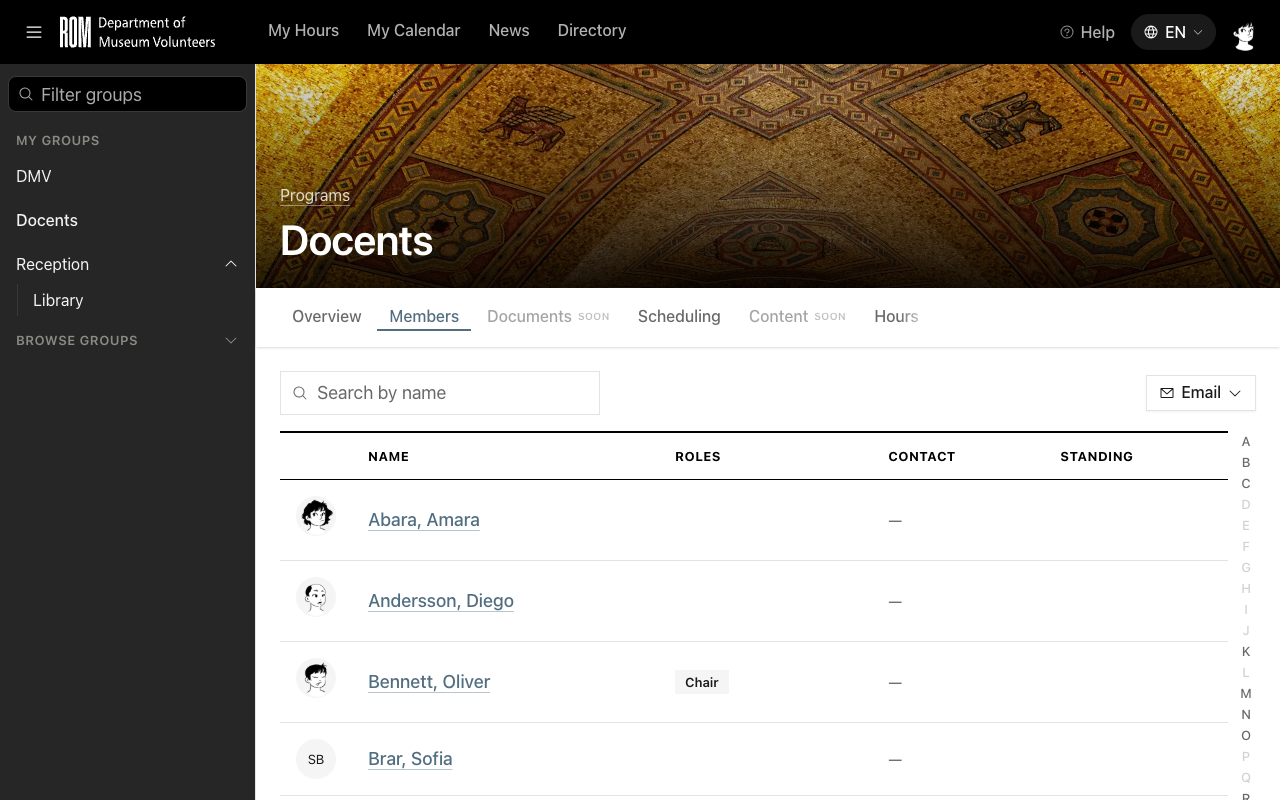
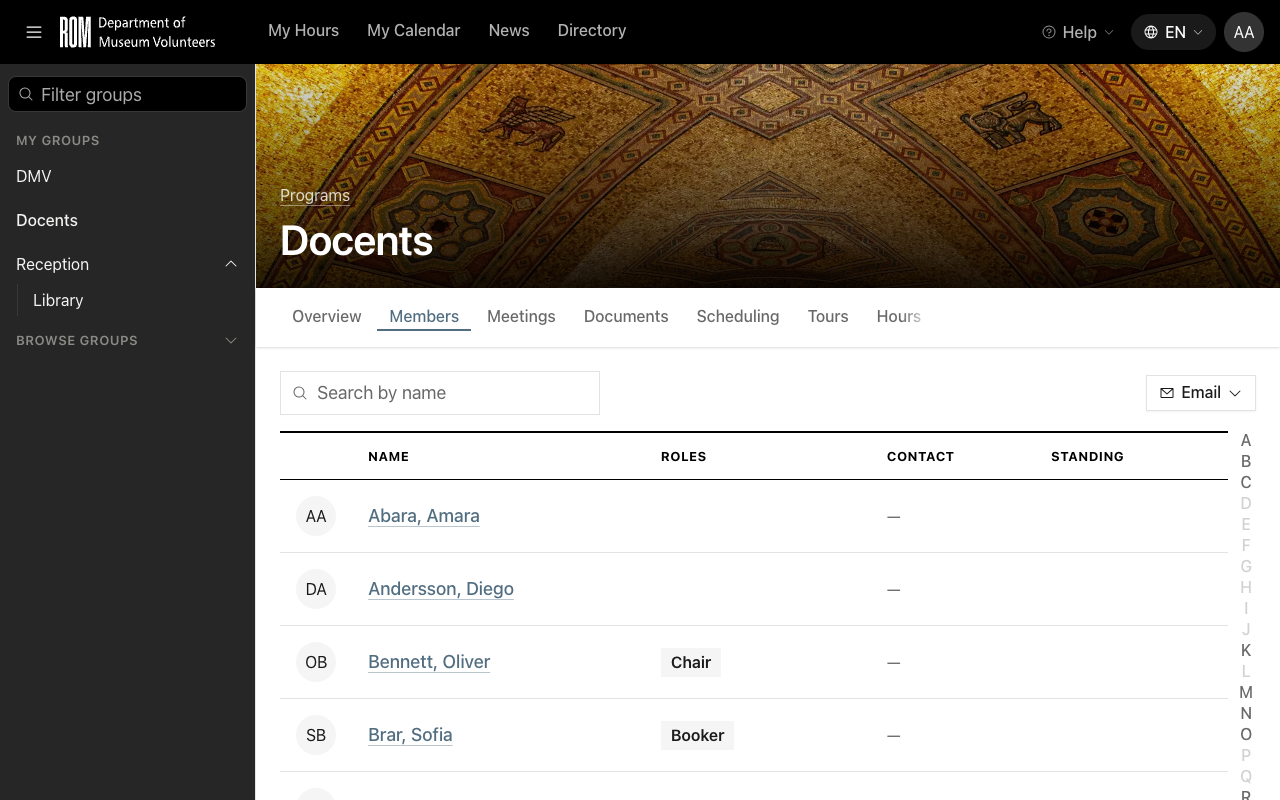
Help screenshots for Group tab visibility (#879)
## Summary

Shoots the help screenshots for the Group tab visibility change (#871).
Closes #874.

Shots the ticket lists:

- `scheduling` 01: reshot. The list shows the current and upcoming
schedules only, with no Past heading.
- `group-page-tabs` 01: reshot. A new `showHowToJoinCard` helper scrolls
the How to join card into view below At a glance. The caption is updated
in EN and FR.
- `group-page-tabs` 06: new. A non-member sees the members-only notice
on the Guides du ROM Tours tab.
- `edit-your-groups-about-us-and-banner` 04: new. The How to join edit
form.

Each new shot has an image link and caption in the English and French
articles.

Also reshot (not in the ticket):

- `sign-up-for-a-shift` 01 and `cancel-a-sign-up` 01. Both still showed
a Past heading with an August schedule on the Scheduling list. This
breaks the ticket's "no past Schedule" criterion.
- `group-page-tabs` 02 to 05. They still showed the tab strip from
before #871 (Soon tabs, no Meetings or Tours).

In `group-page-tabs`, the 03 image now sits before the non-member
paragraph, and 06 sits after it.

Known nit: the shot numbers in two articles do not follow step order
(01, 02, 03, 06, 04, 05 and 01, 02, 04, 03). The ticket set these
numbers, so they stay.

Tests: full Pest suite green on the first commit (2563 passed). The
help-test rerun after the second commit (images and two captions only)
stopped when Docker quit.

## Help article
[…]

diff --git a/resources/help/screenshot-runner/page-helpers.js b/resources/help/screenshot-runner/page-helpers.js
@@ -639,6 +639,16 @@
         return clickAndSettle(buttonLabelled(/^edit$/i, (element) => card.contains(element)));
     }
 
+    // Scroll the Overview just far enough to bring the How to join card (#867) up from below the
+    // fold, so the description, the officers, and At a glance stay in the shot above it.
+    function showHowToJoinCard() {
+        const card = document.getElementById('how-to-join');
+        if (!card) return false;
+        card.scrollIntoView({ block: 'end' });
+        window.scrollBy(0, 24);
+        return settle();
+    }
+
     // The banner picker on the Group header, for a Secretary or Chair. A reka-ui Dialog whose
     // trigger opens on a DOM click, so it comes through clickAndSettle like the other dialogs.
     function openBannerPicker() {
@@ -1018,6 +1028,7 @@
         openNewMeetingDialog,
         openAboutEditForm,
         openHowToJoinEditForm,
+        showHowToJoinCard,
         openBannerPicker,
         openEmailMenu,
         openWholeGroupComposer,

diff --git a/resources/help/fr/group-page-tabs.md b/resources/help/fr/group-page-tabs.md
@@ -8,7 +8,7 @@ Le premier onglet. Il montre la description du groupe, ses responsables et quelq
 
 La carte **Comment se joindre** se trouve sous **En bref**. Elle vous explique comment vous joindre au groupe. Sans étapes écrites, la carte vous invite à communiquer avec son ou sa Président·e. Sur le groupe DMV, elle vous renvoie à la Direction générale du DMV.
 
-![Une page de groupe sur Aperçu : la description et les responsables, avec les onglets en haut](01.png)
+![Une page de groupe sur Aperçu : la description, les responsables et la carte Comment se joindre sous En bref](01.png)
 
 ## Membres
 
@@ -20,9 +20,11 @@ La liste de membres du groupe. Elle liste chaque personne du groupe et le rôle 
 
 Les réunions du groupe, avec leurs ordres du jour et leurs procès-verbaux. Cet onglet apparaît seulement quand le groupe tient des réunions.
 
+![L'onglet Réunions sur un comité : un ensemble d'onglets différent, et aucune réunion notée encore](03.png)
+
 Les onglets Réunions et Visites sont réservés aux membres du groupe. Si vous n'êtes pas dans le groupe, vous voyez quand même ces onglets. Chacun montre seulement **Réservé aux membres de ce groupe** et un lien **Comment se joindre**. Sélectionnez le lien pour ouvrir la carte **Comment se joindre** de l'Aperçu.
 
-![L'onglet Réunions sur un comité : un ensemble d'onglets différent, et aucune réunion notée encore](03.png)
+![L'onglet Visites d'un groupe hors des vôtres : l'avis réservé aux membres et le lien Comment se joindre](06.png)
 
 ## Horaire
 

diff --git a/resources/help/en/group-page-tabs.md b/resources/help/en/group-page-tabs.md
@@ -8,7 +8,7 @@ The first tab. It shows the Group's description, its officers, and a few facts a
 
 The **How to join** card sits below **At a glance**. It tells you how to join the Group. If the Group has not written its steps yet, the card tells you to contact its Chair. On the DMV Group, it points you to the DMV Executive.
 
-![A Group page on Overview: the description and the officers, with the tabs across the top](01.png)
+![A Group page on Overview: the description, the officers, and the How to join card below At a glance](01.png)
 
 ## Members
 
@@ -20,9 +20,11 @@ The Group's roster. It lists everyone in the Group and the role each person hold
 
 The Group's meetings, with their agendas and minutes. This tab shows only when the Group holds meetings.
 
+![The Meetings tab on a committee: a different set of tabs, and no meetings recorded yet](03.png)
+
 Meetings and Tours are for members of the Group. If you are not in the Group, you still see these tabs. Each one shows only **For members of this group** and a **How to join** link. Select the link to open the **How to join** card on the Overview.
 
-![The Meetings tab on a committee: a different set of tabs, and no meetings recorded yet](03.png)
+![The Tours tab on a Group you are not in: the members-only notice and the How to join link](06.png)
 
 ## Scheduling
 

diff --git a/resources/help/en/edit-your-groups-about-us-and-banner.md b/resources/help/en/edit-your-groups-about-us-and-banner.md
@@ -26,6 +26,8 @@ The **How to join** card tells other Members how to join your Group. Everyone wh
 3. Type the steps to join, one per line.
 4. Select **Save**.
 
+    ![The How to join edit form: the text box, Save, and Cancel](04.png)
+
 > **Note:** Empty the box and save to clear the steps. The card then tells readers to contact your Group's Chair.
 
 ## Choose a banner
